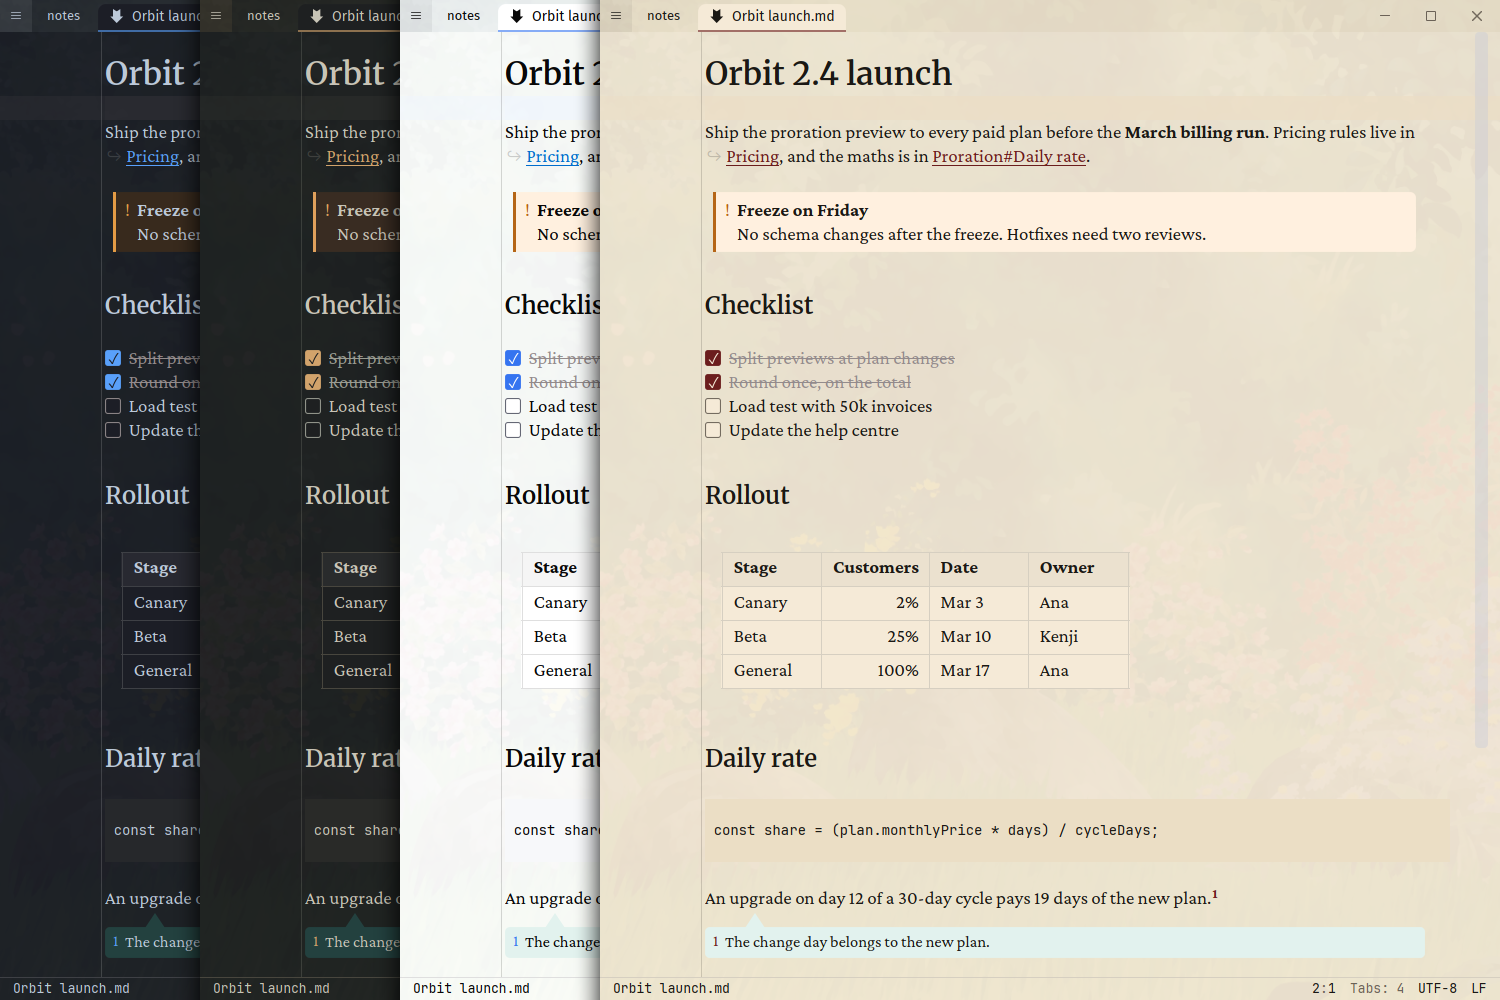
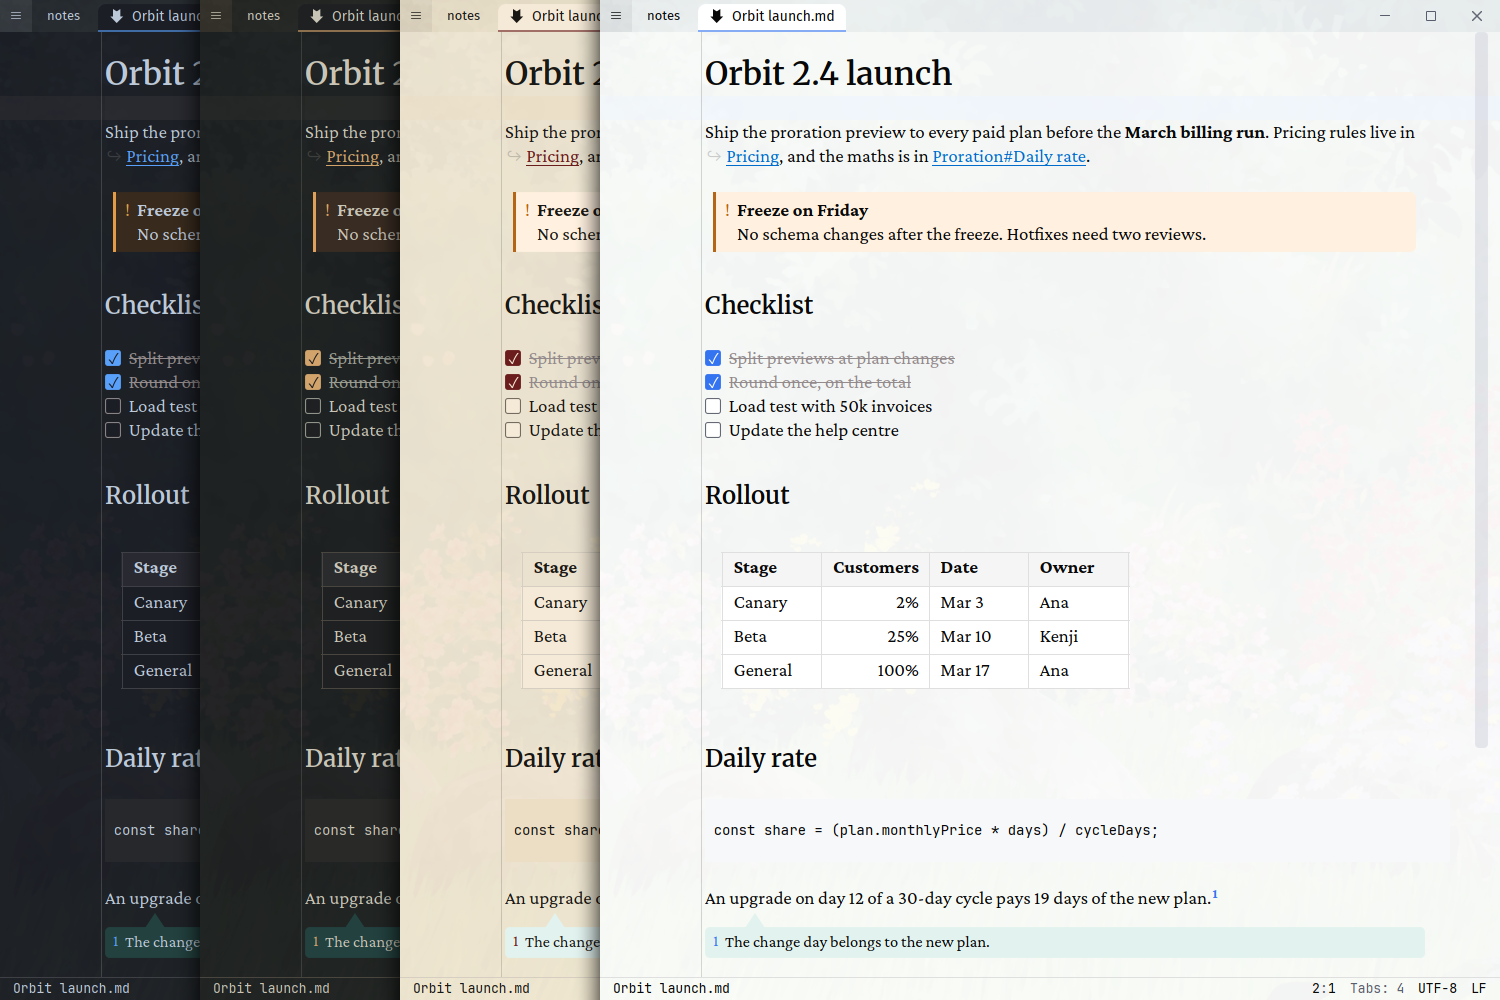
Put the Light theme in front of the theme stack

diff --git a/tools/showcase/run_showcase.py b/tools/showcase/run_showcase.py
@@ -39,7 +39,7 @@ SCENES = {
                   {"blog": 1, "advent-of-code": 3, "infra": 9, "notes": 40}, (1720, 1040), True),
     "themes": (["notes"], {}, (900, 1000), False),
 }
-THEMES = ["dark", "dark3", "light", "light2"]  # From the back of the stack to the front.
+THEMES = ["dark", "dark3", "light2", "light"]  # From the back of the stack to the front.
 AGENTS = json.loads((HERE / "agents.json").read_text(encoding="utf-8"))
 # The models in the Terminal commands of showcase.lua: ID, name, and dollars per million input and output tokens.
 MODELS = {
